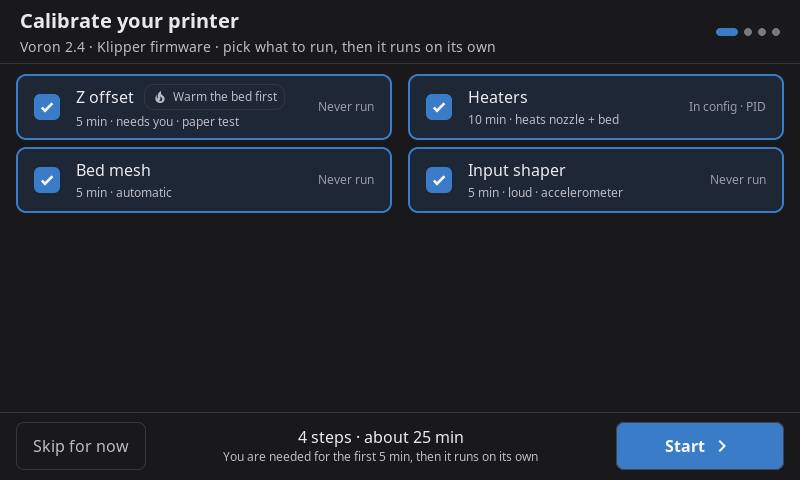
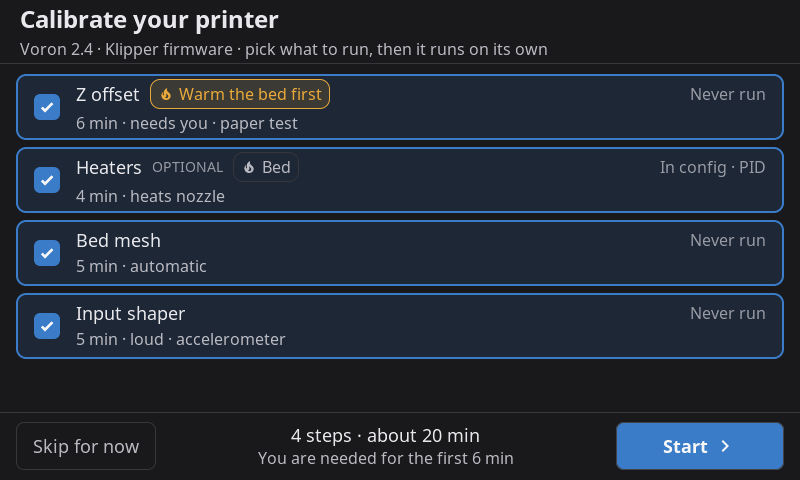
docs(calibration): reshoot the guided calibration images at the app's type scale
Fresh 800x480 shots of the Calibration screen, the wizard's Calibrate page and every guided-run page. The Pick page is one column with Heaters optional and its Bed option; its alt text and the Heaters and Z offset lines now say rows, and the Results text notes per-axis results on their own lines.

diff --git a/docs/user/guide/calibration.md b/docs/user/guide/calibration.md
@@ -57,16 +57,16 @@ Start a guided calibration from either place:
 
 ### Picking the Calibrations
 
-The first page lists the calibrations the guided run offers on your printer, each with its time and what it involves: whether it needs you, uses the paper test, heats or is loud.
+The first page lists the calibrations the guided run offers on your printer, one row each, with its time and what it involves: whether it needs you, uses the paper test, heats or is loud. The right end of each row says what that calibration last measured, or that it never ran.
 
-![Picking the calibrations: Z offset with Warm the bed first, Heaters, Bed mesh and Input shaper, all ticked, with the total time at the bottom](../../images/user/calibration-guided-pick.png)
+![Picking the calibrations: Z offset with Warm the bed first on, Heaters marked optional with its Bed option, Bed mesh and Input shaper, all ticked, with the total time and how long you are needed at the bottom](../../images/user/calibration-guided-pick.png)
 
 - Recommended calibrations start ticked. Optional ones start unticked.
 - A calibration your printer's profile marks as required stays ticked and cannot be unticked.
 - The total time, and how much of it needs you, update as you tick and untick.
 - **Heaters** starts unticked when your printer's configuration already has tuning for its heaters (PID values or MPC): working tuning does not need redoing. A heater with no tuning makes it start ticked again, and the printer's profile decides whether it can be unticked.
-- The **Heaters** card has a **Bed** option, shown while Heaters is ticked. By default only the nozzle is tuned; tap **Bed** to tune the bed as well, and the card's time grows by the bed's share, which can be most of an hour on a large bed. A bed with no tuning yet is always tuned: the option shows on, with a lock.
-- The **Z offset** card has **Warm the bed first**. Tap it to heat the bed before the printer probes, so the offset is measured with the bed expanded the way it is when you print. Tap it again to turn it off.
+- The **Heaters** row has a **Bed** option, shown while Heaters is ticked. By default only the nozzle is tuned; tap **Bed** to tune the bed as well, and the row's time grows by the bed's share, which can be most of an hour on a large bed. A bed with no tuning yet is always tuned: the option shows on, with a lock.
+- The **Z offset** row has **Warm the bed first**. Tap it to heat the bed before the printer probes, so the offset is measured with the bed expanded the way it is when you print. Tap it again to turn it off.
 
 Tap **Start** when the list is right, or **Skip for now** to close the guided calibration without running anything.
 
@@ -125,7 +125,7 @@ If the printer shuts down or restarts during a run for any other reason, the fin
 
 ### Results: Save or Discard All
 
-When every calibration has ended, or after a stop, tap **See results**. Each calibration shows the value from before the run beside what the run measured, or why it failed, was skipped or was not run.
+When every calibration has ended, or after a stop, tap **See results**. Each calibration shows the value from before the run beside what the run measured, or why it failed, was skipped or was not run. A result with one value per axis, like the input shaper's, shows each axis on its own line.
 
 ![Results: each calibration's value before the run and after it, with Discard all and Save and restart Klipper at the bottom](../../images/user/calibration-guided-results.png)
 
